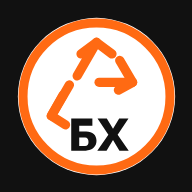
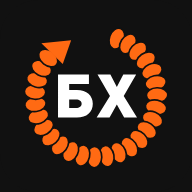
Логотип «Шов»: кільце зварного шва, що замикається стрілкою навколо БХ
- logo.svg (світлий), logo-dark.svg (для темного підвалу), favicon.svg (іконка вкладки)
- Нові іконки застосунку й картинка для соцмереж
- У шапці поруч зі знаком — лише підпис, без повтору «БХ»

Claude-Session: https://claude.ai/code/session_01Bc93v69H4fri3UtGNPHZWn

diff --git a/public/js/app.js b/public/js/app.js
@@ -191,7 +191,7 @@
     $('#ftr').innerHTML = `<div class="wrap">
       <div class="ftr__top">
         <div>
-          <a class="logo" href="/"><img class="logo__mark" src="/img/logo.svg" alt="" width="40" height="40"><span class="logo__txt"><b>${esc(s.brand)}</b><small>${esc($('[data-s="brand_sub"]').textContent)}</small></span></a>
+          <a class="logo" href="/"><img class="logo__mark" src="/img/logo-dark.svg" alt="" width="40" height="40"><span class="logo__txt"><b>${esc(s.brand)}</b><small>${esc($('[data-s="brand_sub"]').textContent)}</small></span></a>
           <p class="ftr__about">${t('ft.about')}</p>
           <div class="socials">
             ${telHref() ? `<a class="iconbtn" href="${telHref()}" aria-label="${t('co.phone')}">${icon('phone', 18)}</a>` : ''}
@@ -521,7 +521,7 @@
         <div class="drow" id="d4"><a class="drow__img drow__img--c" href="/contacts?topic=custom#form">${pic(get('kontejner-dlya-multylifta-scania'), 0)}<i>04</i></a><div><span class="eyebrow">${t('d.4k')}</span><h3>${t('d.4t')}</h3><p class="l">${t('d.4p')}</p>
           <ul class="bul">${[1, 2, 3].map((i) => `<li>${t(`d.4l${i}`)}</li>`).join('')}</ul>
           <div class="acts"><a class="btn btn--dark" href="/contacts?topic=custom#form">${t('d.4b')} ${icon('arrow', 18)}</a></div></div></div>
-        <div class="drow" id="d5"><a class="drow__img drow__mark" href="/partners"><div><img src="/img/logo.svg" alt=""><p>${t('d.5mark')}</p></div><i>05</i></a><div><span class="eyebrow">${t('d.5k')}</span><h3>${t('d.5t')}</h3><p class="l">${t('d.5p')}</p>
+        <div class="drow" id="d5"><a class="drow__img drow__mark" href="/partners"><div><img src="/img/logo-dark.svg" alt=""><p>${t('d.5mark')}</p></div><i>05</i></a><div><span class="eyebrow">${t('d.5k')}</span><h3>${t('d.5t')}</h3><p class="l">${t('d.5p')}</p>
           <ul class="bul">${[1, 2, 3].map((i) => `<li>${t(`d.5l${i}`)}</li>`).join('')}</ul>
           <div class="acts"><a class="btn btn--dark" href="/partners">${t('nav.partners')} ${icon('arrow', 18)}</a><a class="btn" href="/careers">${t('nav.careers')}${META.vacancies ? ` · ${META.vacancies}` : ''}</a></div></div></div>
       </div>

diff --git a/public/css/brand.css b/public/css/brand.css
@@ -300,3 +300,10 @@ h4 { font-family: var(--f-display); text-transform: uppercase; }
   .price { font-size: 20px; }
 }
 @media (prefers-reduced-motion: reduce) { .bh-line * { animation: none !important; } }
+
+/* логотип «Шов»: «БХ» уже всередині знака — поруч лише підпис */
+.logo__mark { width: 52px; height: 52px; }
+.logo__txt b { display: none; }
+.logo__txt small { font: 700 15px/1.1 var(--f-display); letter-spacing: .04em; color: var(--text); margin: 0; max-width: 150px; white-space: normal; }
+.ftr .logo__txt small { color: #fff; }
+@media (max-width: 1440px) and (min-width: 1025px) { .logo__txt small { display: none; } }

diff --git a/public/index.html b/public/index.html
@@ -5,7 +5,7 @@
   <meta name="viewport" content="width=device-width, initial-scale=1, viewport-fit=cover">
   <!--META-->
   <meta name="theme-color" content="#111111">
-  <link rel="icon" href="/img/logo.svg" type="image/svg+xml">
+  <link rel="icon" href="/img/favicon.svg" type="image/svg+xml">
   <link rel="apple-touch-icon" href="/img/icon-192.png">
   <link rel="manifest" href="/manifest.webmanifest">
   <link rel="preconnect" href="https://fonts.googleapis.com">
